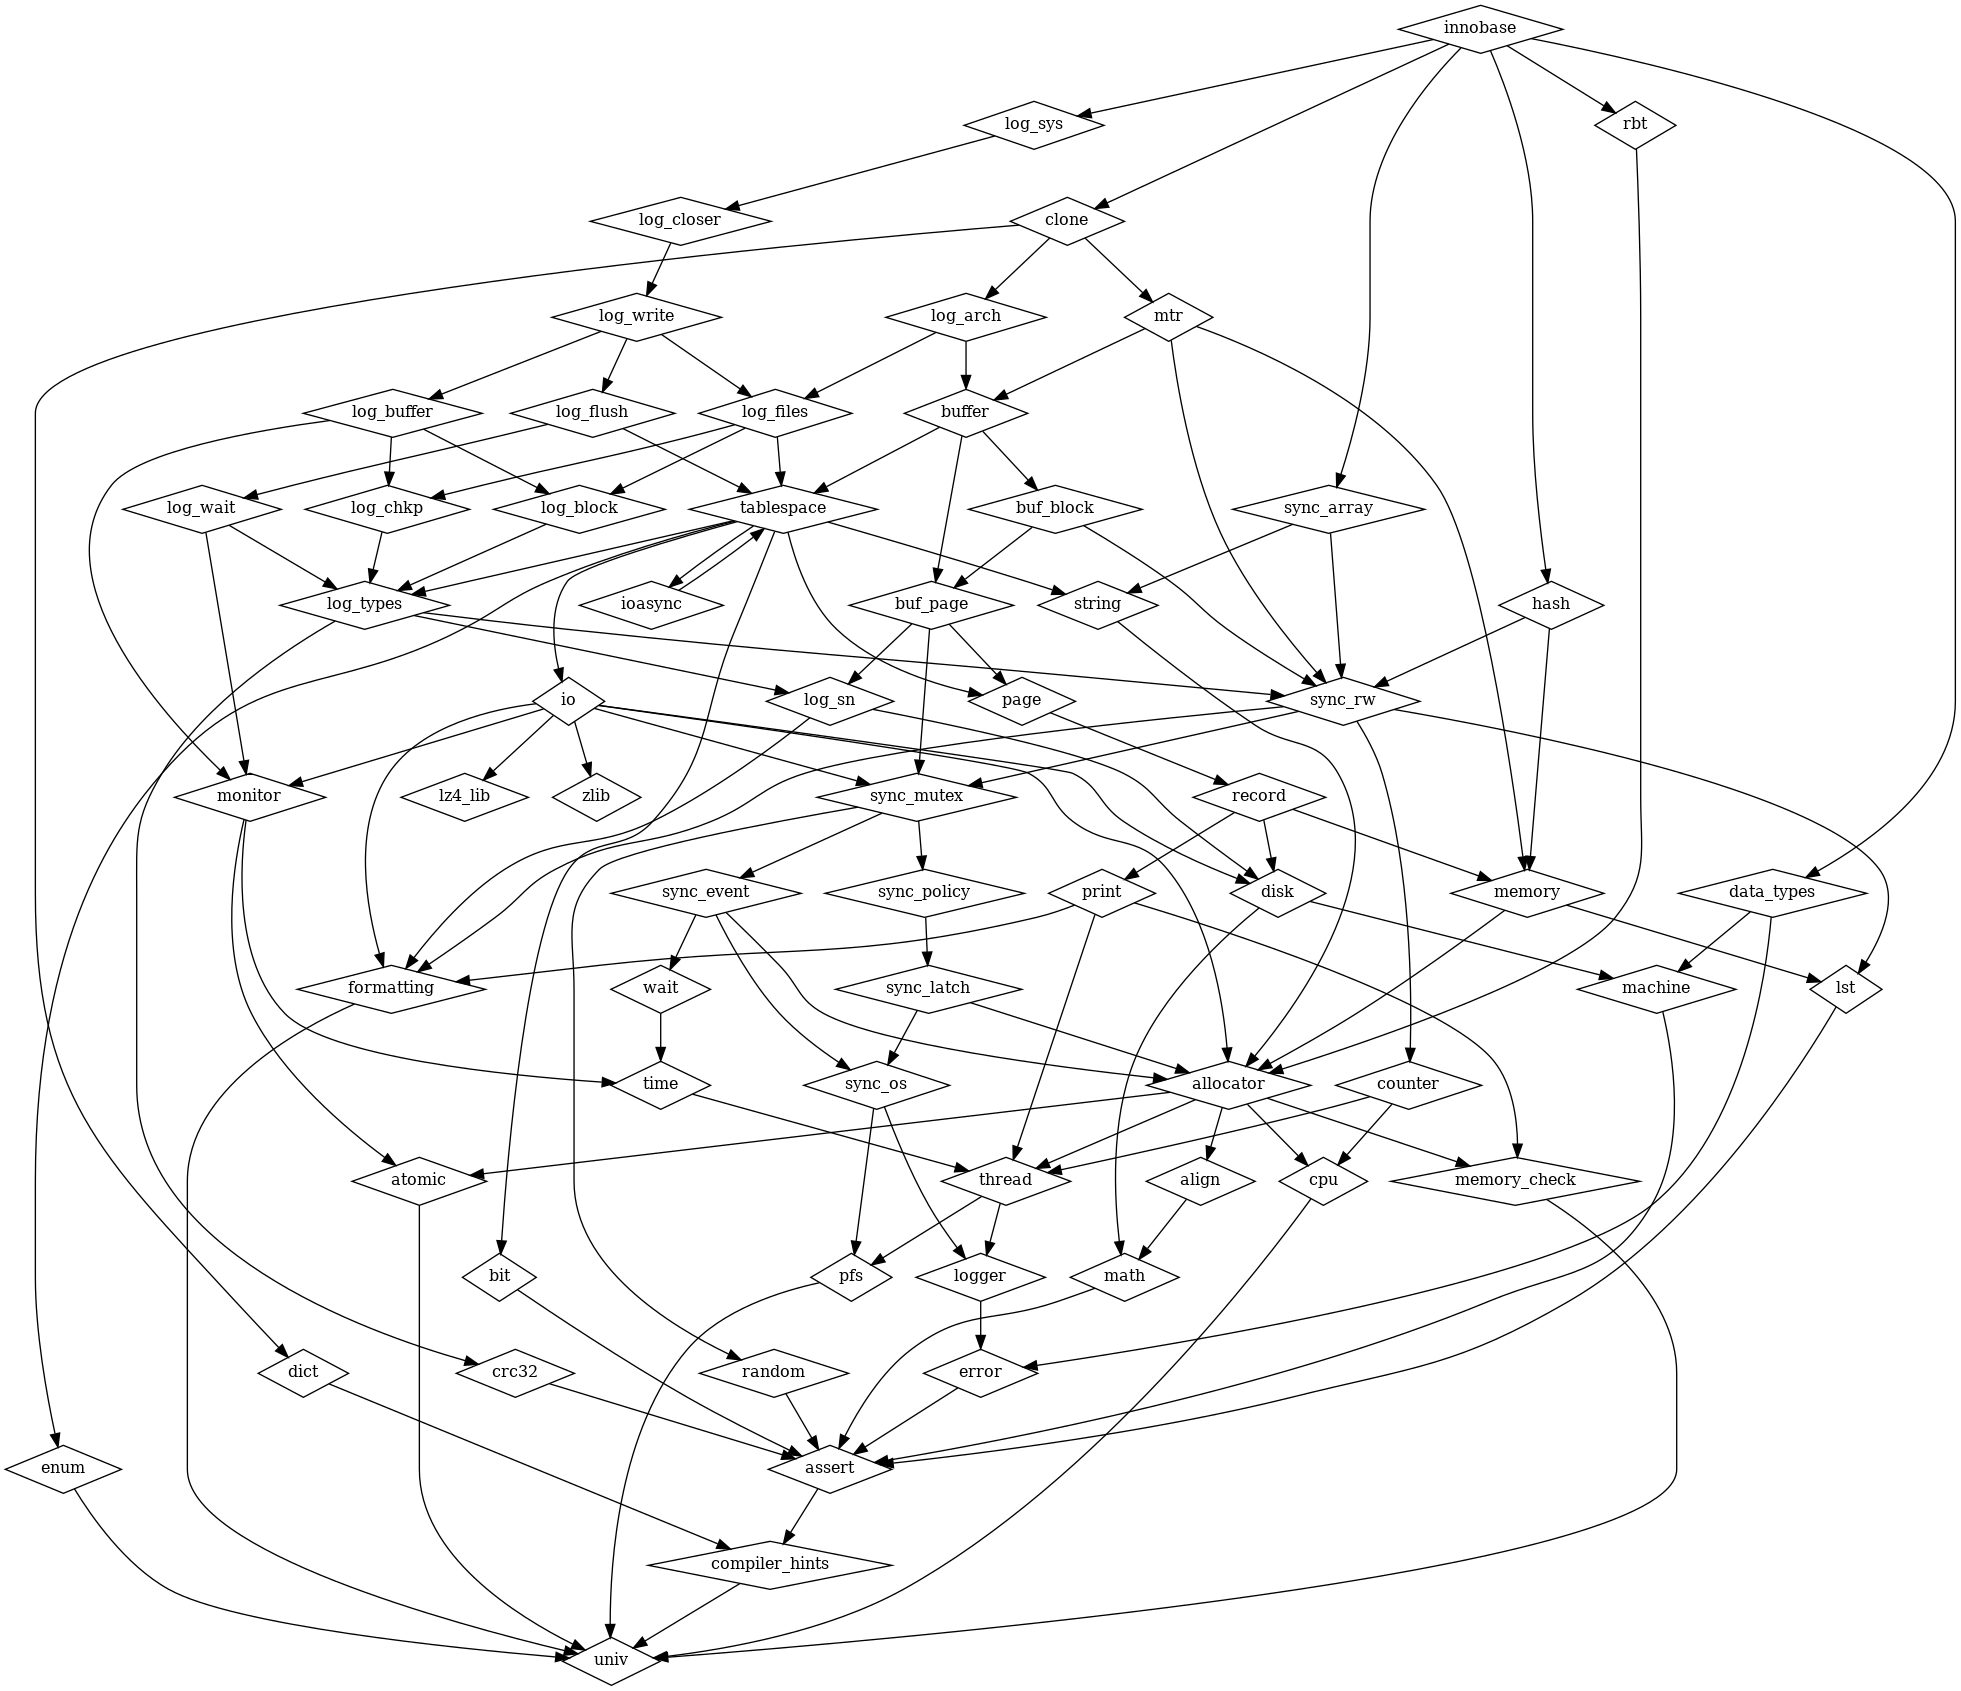
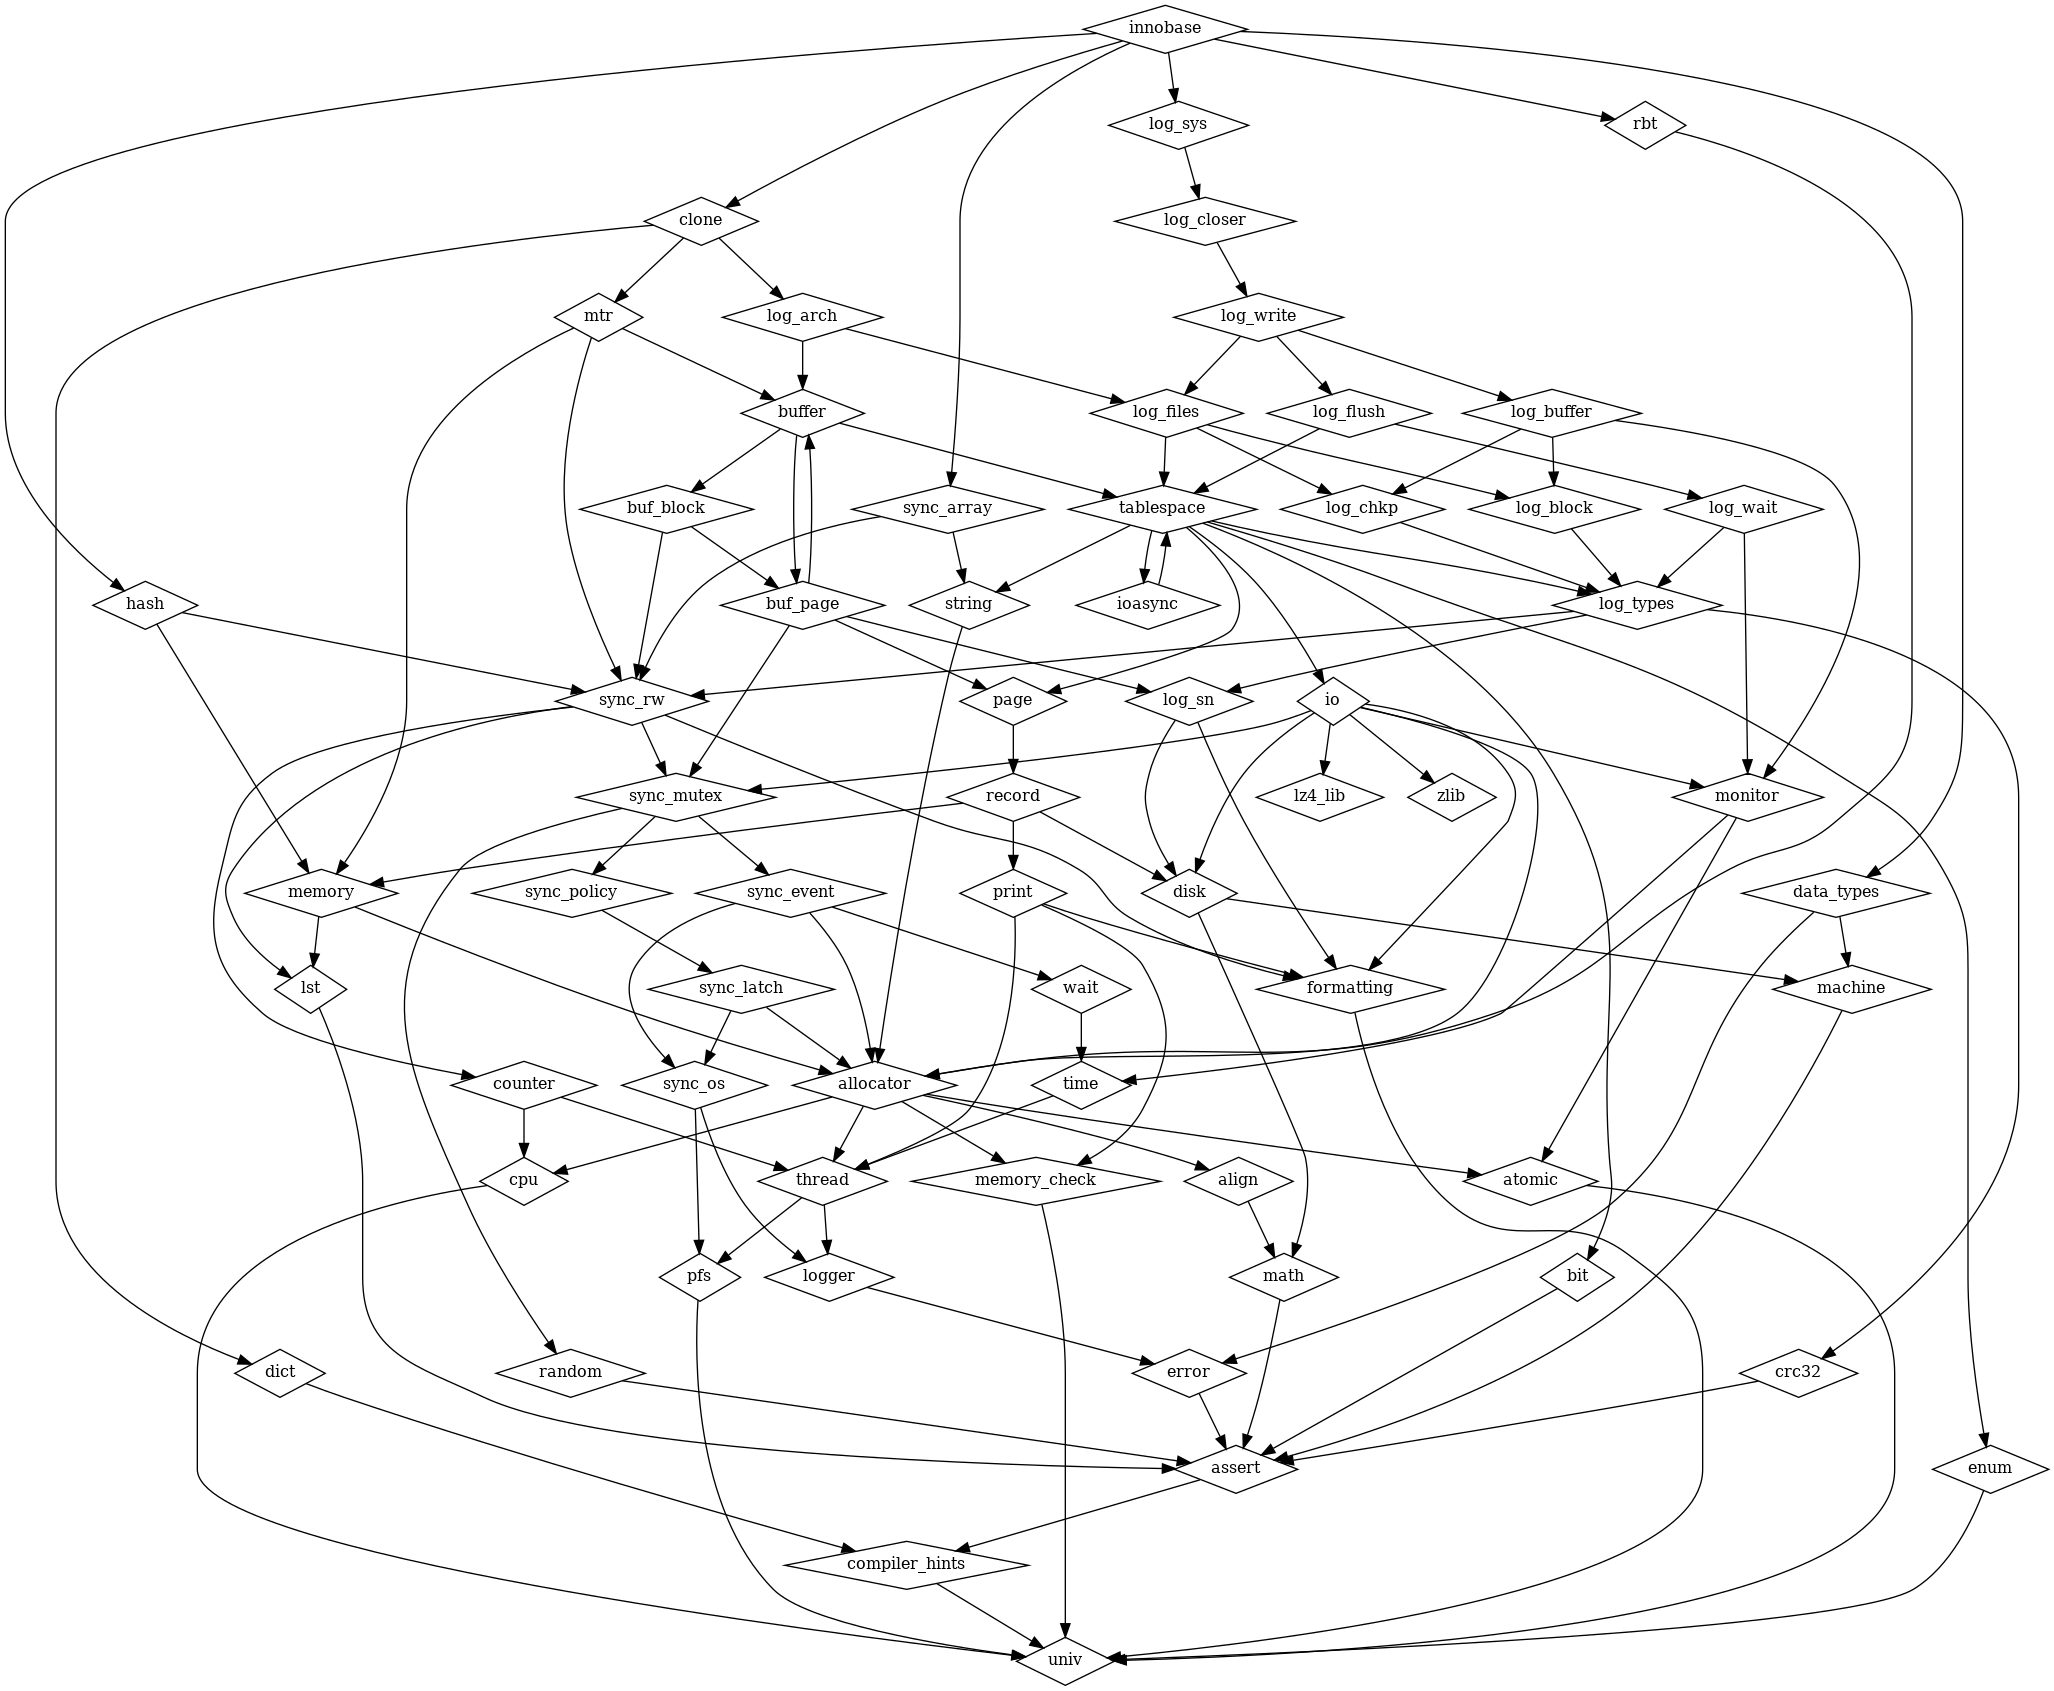
Extend lib_page library

diff --git a/storage/innobase/buf/buf0lru.cc b/storage/innobase/buf/buf0lru.cc
@@ -38,22 +38,22 @@ this program; if not, write to the Free Software Foundation, Inc.,
 #include <innodb/print/ut_print_buf.h>
 #include <innodb/buffer/buf_flush_list_mutex_enter.h>
 #include <innodb/buffer/buf_flush_list_mutex_exit.h>
-#include <innodb/buffer/buf_page_set_sticky.h>
+#include <innodb/buf_page/buf_page_set_sticky.h>
 #include <innodb/buffer/buf_pool_from_array.h>
 #include <innodb/buffer/buf_get_withdraw_depth.h>
 #include <innodb/buf_page/buf_page_alloc_descriptor.h>
 #include <innodb/buf_page/buf_page_free_descriptor.h>
-#include <innodb/buffer/buf_page_get_mutex.h>
-#include <innodb/buffer/buf_page_unset_sticky.h>
-#include <innodb/buffer/buf_page_get_io_fix_unlocked.h>
-#include <innodb/buffer/buf_page_get_io_fix.h>
-#include <innodb/buffer/buf_page_set_io_fix.h>
-#include <innodb/buffer/buf_page_set_old.h>
+#include <innodb/buf_page/buf_page_get_mutex.h>
+#include <innodb/buf_page/buf_page_unset_sticky.h>
+#include <innodb/buf_page/buf_page_get_io_fix_unlocked.h>
+#include <innodb/buf_page/buf_page_get_io_fix.h>
+#include <innodb/buf_page/buf_page_set_io_fix.h>
+#include <innodb/buf_page/buf_page_set_old.h>
 #include <innodb/buf_page/buf_page_is_old.h>
-#include <innodb/buffer/buf_page_can_relocate.h>
+#include <innodb/buf_page/buf_page_can_relocate.h>
 #include <innodb/buf_page/buf_page_in_file.h>
 #include <innodb/buf_page/buf_page_get_state.h>
-#include <innodb/buffer/buf_page_belongs_to_unzip_LRU.h>
+#include <innodb/buf_page/buf_page_belongs_to_unzip_LRU.h>
 #include <innodb/buf_block/buf_block_set_state.h>
 #include <innodb/buffer/buf_pool_from_bpage.h>
 #include <innodb/buf_page/buf_page_set_state.h>

diff --git a/storage/innobase/buf/buf0buf.cc b/storage/innobase/buf/buf0buf.cc
@@ -84,16 +84,16 @@ this program; if not, write to the Free Software Foundation, Inc.,
 #include <innodb/buf_block/buf_block_fix.h>
 #include <innodb/buf_block/buf_block_buf_fix_dec.h>
 #include <innodb/buf_page/buf_page_free_descriptor.h>
-#include <innodb/buffer/buf_page_set_accessed.h>
+#include <innodb/buf_page/buf_page_set_accessed.h>
 #include <innodb/buf_page/buf_page_alloc_descriptor.h>
-#include <innodb/buffer/buf_page_get_block.h>
-#include <innodb/buffer/buf_page_get_io_fix.h>
-#include <innodb/buffer/buf_page_get_io_fix_unlocked.h>
-#include <innodb/buffer/buf_page_get_mutex.h>
-#include <innodb/buffer/buf_page_can_relocate.h>
+#include <innodb/buf_page/buf_page_get_block.h>
+#include <innodb/buf_page/buf_page_get_io_fix.h>
+#include <innodb/buf_page/buf_page_get_io_fix_unlocked.h>
+#include <innodb/buf_page/buf_page_get_mutex.h>
+#include <innodb/buf_page/buf_page_can_relocate.h>
 #include <innodb/buffer/buf_block_get_io_fix_unlocked.h>
 #include <innodb/buf_block/buf_block_set_file_page.h>
-#include <innodb/buffer/buf_page_set_io_fix.h>
+#include <innodb/buf_page/buf_page_set_io_fix.h>
 #include <innodb/buf_page/buf_page_get_flush_type.h>
 #include <innodb/buf_block/buf_block_set_state.h>
 #include <innodb/buffer/buf_pool_index.h>

diff --git a/storage/innobase/buf/buf0flu.cc b/storage/innobase/buf/buf0flu.cc
@@ -55,10 +55,10 @@ this program; if not, write to the Free Software Foundation, Inc.,
 #include <innodb/buffer/buf_pool_get.h>
 #include <innodb/buffer/buf_get_withdraw_depth.h>
 #include <innodb/buf_page/buf_page_get_flush_type.h>
-#include <innodb/buffer/buf_page_get_io_fix.h>
-#include <innodb/buffer/buf_page_get_io_fix_unlocked.h>
-#include <innodb/buffer/buf_page_set_io_fix.h>
-#include <innodb/buffer/buf_page_get_mutex.h>
+#include <innodb/buf_page/buf_page_get_io_fix.h>
+#include <innodb/buf_page/buf_page_get_io_fix_unlocked.h>
+#include <innodb/buf_page/buf_page_set_io_fix.h>
+#include <innodb/buf_page/buf_page_get_mutex.h>
 #include <innodb/buf_page/buf_page_set_flush_type.h>
 #include <innodb/buf_page/buf_page_is_old.h>
 #include <innodb/buffer/buf_pool_from_bpage.h>

diff --git a/storage/innobase/handler/i_s.cc b/storage/innobase/handler/i_s.cc
@@ -36,10 +36,10 @@ this program; if not, write to the Free Software Foundation, Inc.,
 #include <innodb/buffer/buf_buddy_stat_t.h>
 #include <innodb/buffer/buf_pool_from_array.h>
 #include <innodb/buffer/buf_pool_t.h>
-#include <innodb/buffer/buf_page_get_mutex.h>
+#include <innodb/buf_page/buf_page_get_mutex.h>
 #include <innodb/buf_page/buf_page_get_state.h>
 #include <innodb/buf_page/buf_page_in_file.h>
-#include <innodb/buffer/buf_page_get_io_fix.h>
+#include <innodb/buf_page/buf_page_get_io_fix.h>
 #include <innodb/buffer/buf_get_nth_chunk_block.h>
 #include <innodb/tablespace/fsp_is_shared_tablespace.h>
 #include <innodb/io/os_file_get_status.h>

diff --git a/storage/innobase/buf/buf0buddy.cc b/storage/innobase/buf/buf0buddy.cc
@@ -36,8 +36,8 @@ this program; if not, write to the Free Software Foundation, Inc.,
 #include <innodb/time/ut_time_us.h>
 #include <innodb/buffer/buf_get_withdraw_depth.h>
 #include <innodb/buffer/buf_pool_get.h>
-#include <innodb/buffer/buf_page_get_mutex.h>
-#include <innodb/buffer/buf_page_can_relocate.h>
+#include <innodb/buf_page/buf_page_get_mutex.h>
+#include <innodb/buf_page/buf_page_can_relocate.h>
 #include <innodb/buf_block/buf_block_set_state.h>
 #include <innodb/buf_page/buf_page_get_state.h>
 #include <innodb/buffer/buf_buddy_free_t.h>

diff --git a/storage/innobase/libs/buffer/src/buf_flush_ready_for_replace.cpp b/storage/innobase/libs/buffer/src/buf_flush_ready_for_replace.cpp
@@ -1,10 +1,10 @@
 #include <innodb/buffer/buf_flush_ready_for_replace.h>
 
 #include <innodb/buf_page/buf_page_t.h>
-#include <innodb/buffer/buf_page_get_mutex.h>
+#include <innodb/buf_page/buf_page_get_mutex.h>
 #include <innodb/buf_page/buf_page_in_file.h>
 #include <innodb/logger/fatal.h>
-#include <innodb/buffer/buf_page_get_io_fix.h>
+#include <innodb/buf_page/buf_page_get_io_fix.h>
 
 /** Returns TRUE if the file page block is immediately suitable for replacement,
 i.e., the transition FILE_PAGE => NOT_USED allowed. The caller must hold the

diff --git a/storage/innobase/libs/buf_page/src/buf_page_can_relocate.cpp b/storage/innobase/libs/buf_page/src/buf_page_can_relocate.cpp
@@ -1,11 +1,11 @@
-#include <innodb/buffer/buf_page_can_relocate.h>
+#include <innodb/buf_page/buf_page_can_relocate.h>
 
 #ifndef UNIV_HOTBACKUP
 
 #include <innodb/buf_page/buf_page_in_file.h>
 #include <innodb/buf_page/buf_page_t.h>
-#include <innodb/buffer/buf_page_get_io_fix.h>
-#include <innodb/buffer/buf_page_get_mutex.h>
+#include <innodb/buf_page/buf_page_get_io_fix.h>
+#include <innodb/buf_page/buf_page_get_mutex.h>
 #include <innodb/sync_mutex/mutex_own.h>
 
 /** Determine if a buffer block can be relocated in memory.  The block

diff --git a/storage/innobase/libs/buf_page/src/buf_page_set_sticky.cpp b/storage/innobase/libs/buf_page/src/buf_page_set_sticky.cpp
@@ -1,10 +1,10 @@
-#include <innodb/buffer/buf_page_set_sticky.h>
+#include <innodb/buf_page/buf_page_set_sticky.h>
 
 #ifndef UNIV_HOTBACKUP
 
 #include <innodb/buf_page/buf_page_t.h>
-#include <innodb/buffer/buf_page_get_io_fix.h>
-#include <innodb/buffer/buf_page_get_mutex.h>
+#include <innodb/buf_page/buf_page_get_io_fix.h>
+#include <innodb/buf_page/buf_page_get_mutex.h>
 #include <innodb/sync_mutex/mutex_own.h>
 
 /** Makes a block sticky. A sticky block implies that even after we release

diff --git a/storage/innobase/log/log0recv.cc b/storage/innobase/log/log0recv.cc
@@ -46,7 +46,7 @@ this program; if not, write to the Free Software Foundation, Inc.,
 #include <innodb/sync_event/os_event_reset.h>
 #include <innodb/sync_rw/rw_lock_x_lock_move_ownership.h>
 #include <innodb/print/ut_print_buf.h>
-#include <innodb/buffer/buf_page_get_newest_modification.h>
+#include <innodb/buf_page/buf_page_get_newest_modification.h>
 #include <innodb/buffer/buf_pool_get_n_pages.h>
 #include <innodb/io/IORequestRead.h>
 #include <innodb/io/IORequestWrite.h>

diff --git a/storage/innobase/libs/buf_page/src/buf_page_get_io_fix.cpp b/storage/innobase/libs/buf_page/src/buf_page_get_io_fix.cpp
@@ -1,10 +1,10 @@
-#include <innodb/buffer/buf_page_get_io_fix.h>
+#include <innodb/buf_page/buf_page_get_io_fix.h>
 
 #ifndef UNIV_HOTBACKUP
 
 #include <innodb/buf_page/buf_page_t.h>
-#include <innodb/buffer/buf_page_get_mutex.h>
-#include <innodb/buffer/buf_page_get_io_fix_unlocked.h>
+#include <innodb/buf_page/buf_page_get_mutex.h>
+#include <innodb/buf_page/buf_page_get_io_fix_unlocked.h>
 #include <innodb/sync_mutex/mutex_own.h>
 
 /** Gets the io_fix state of a block.

diff --git a/storage/innobase/libs/buf_page/src/buf_page_unset_sticky.cpp b/storage/innobase/libs/buf_page/src/buf_page_unset_sticky.cpp
@@ -1,10 +1,10 @@
-#include <innodb/buffer/buf_page_unset_sticky.h>
+#include <innodb/buf_page/buf_page_unset_sticky.h>
 
 #ifndef UNIV_HOTBACKUP
 
 #include <innodb/buf_page/buf_page_t.h>
-#include <innodb/buffer/buf_page_get_mutex.h>
-#include <innodb/buffer/buf_page_get_io_fix.h>
+#include <innodb/buf_page/buf_page_get_mutex.h>
+#include <innodb/buf_page/buf_page_get_io_fix.h>
 #include <innodb/sync_mutex/mutex_own.h>
 
 /** Removes stickiness of a block. */

diff --git a/storage/innobase/libs/buf_page/src/buf_page_set_io_fix.cpp b/storage/innobase/libs/buf_page/src/buf_page_set_io_fix.cpp
@@ -1,10 +1,10 @@
-#include <innodb/buffer/buf_page_set_io_fix.h>
+#include <innodb/buf_page/buf_page_set_io_fix.h>
 
 #ifndef UNIV_HOTBACKUP
 
 #include <innodb/buf_page/buf_page_t.h>
-#include <innodb/buffer/buf_page_get_mutex.h>
-#include <innodb/buffer/buf_page_get_io_fix.h>
+#include <innodb/buf_page/buf_page_get_mutex.h>
+#include <innodb/buf_page/buf_page_get_io_fix.h>
 #include <innodb/sync_mutex/mutex_own.h>
 
 /** Sets the io_fix state of a block. */
